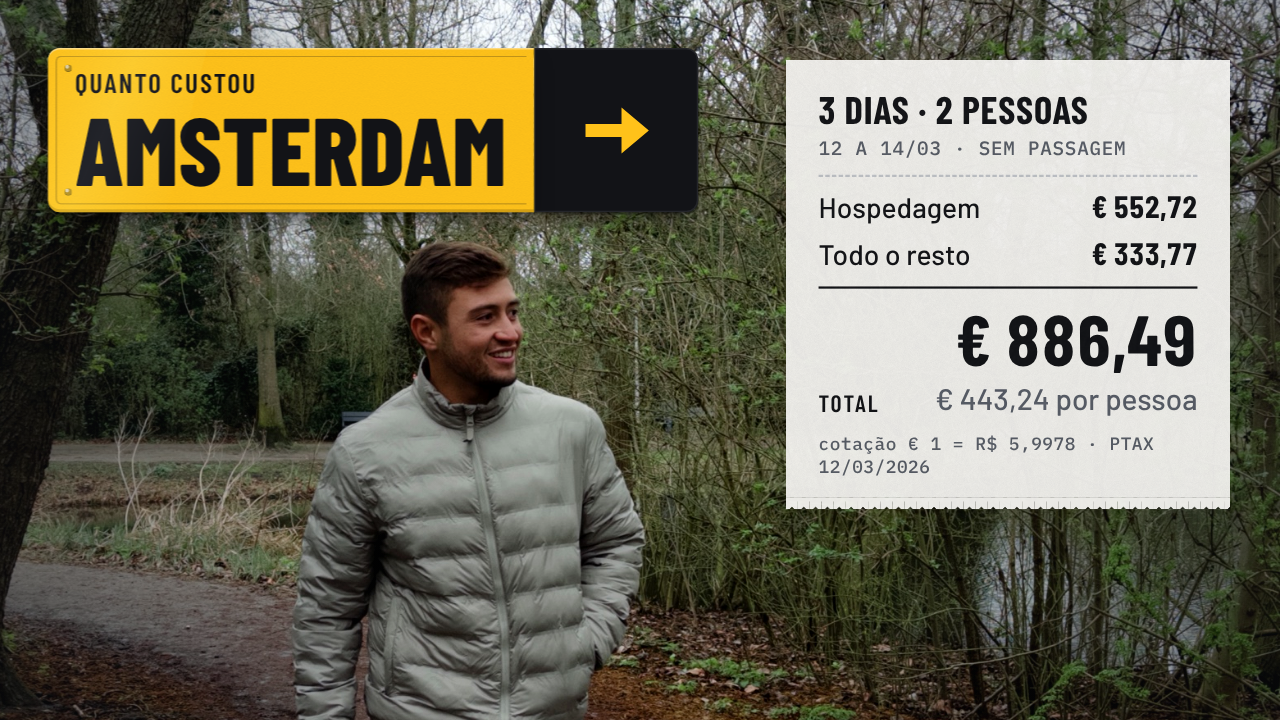
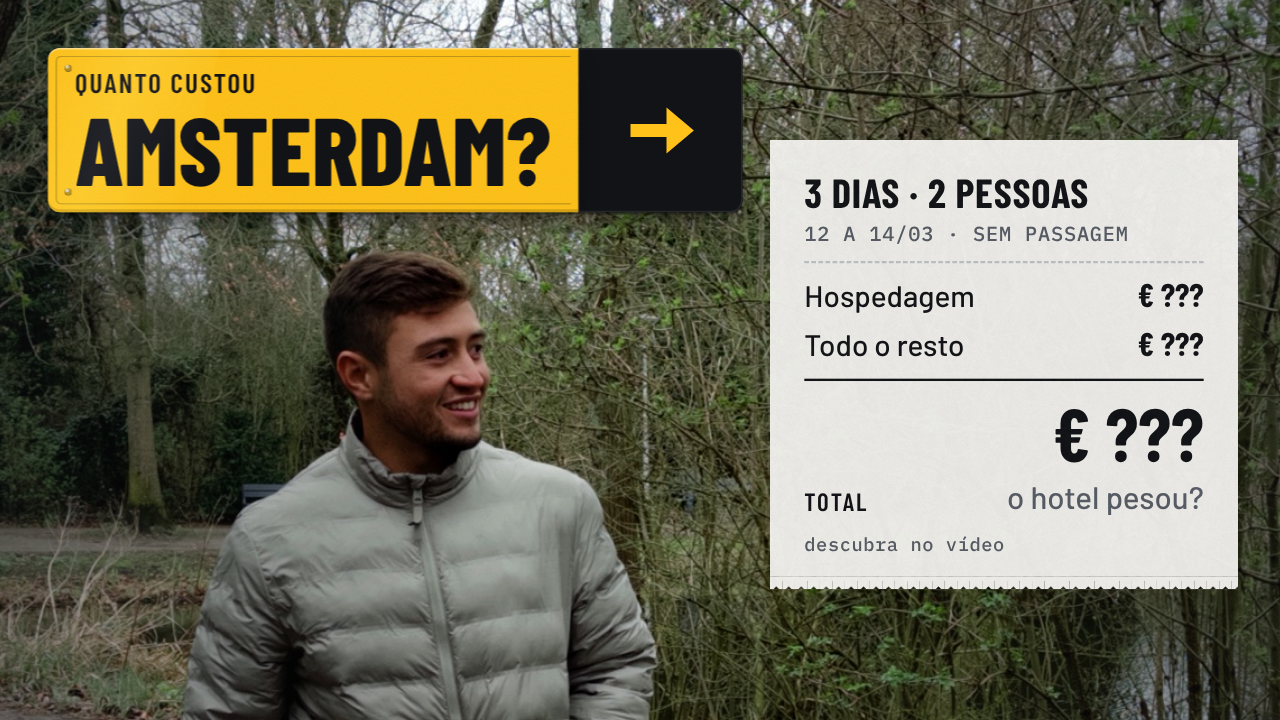
ams-yt REV3: thumbnail sem valores (Recibo com € ???)
Claude-Session: https://claude.ai/code/session_013M8D9a7vGjjELo3cABFCq7

diff --git a/reels/ams-yt/rev3/QA_REV3.md b/reels/ams-yt/rev3/QA_REV3.md
@@ -88,6 +88,6 @@ Para as próximas revisões: o proxy 1080p (`_tmp/servir/proxy1080.mp4`) foi apa
 
 ## 8. Thumbnail
 
-`thumb/thumbnail_amsterdam_rev3.png` (1280 × 720), feita com a foto do parque que o Diego enviou (`thumb/foto_diego_parque.jpg`), pela composição `ThumbYT` do Remotion (`node scripts/thumb.mjs thumb/props_thumb.json thumb <saida.png>`, de `design-system/remotion`). DS V2, 5.5: foto como fundo com contraste +10, Placa pequena (75%) no canto superior esquerdo com margem 48, 1 objeto da história (Recibo com o total, valores reais do vídeo), texto: `QUANTO CUSTOU AMSTERDAM`. Zona proibida (x > 1040 e y > 600) livre.
+`thumb/thumbnail_amsterdam_rev3.png` (1280 × 720), feita com a foto do parque que o Diego enviou (`thumb/foto_diego_parque.jpg`), pela composição `ThumbYT` do Remotion (`node scripts/thumb.mjs thumb/props_thumb.json thumb <saida.png>`, de `design-system/remotion`). DS V2, 5.5: foto como fundo com contraste +10, Placa pequena (75%) no canto superior esquerdo com margem 48, 1 objeto da história (Recibo com `€ ???`: nenhum valor na capa, o total só aparece no vídeo, pedido do Diego em 24/10), texto: `QUANTO CUSTOU AMSTERDAM?`. Zona proibida (x > 1040 e y > 600) livre.
 
 Desvios que você pode querer rever: (1) o DS pede o Diego à direita e recortado (parallax); na foto ele está à esquerda do centro e sem recorte, então a placa e o Recibo ficam nos dois lados dele; (2) o preset de cor do DS não foi aplicado (só o contraste +10); (3) a foto é de dia nublado em parque, não um frame do vídeo.
